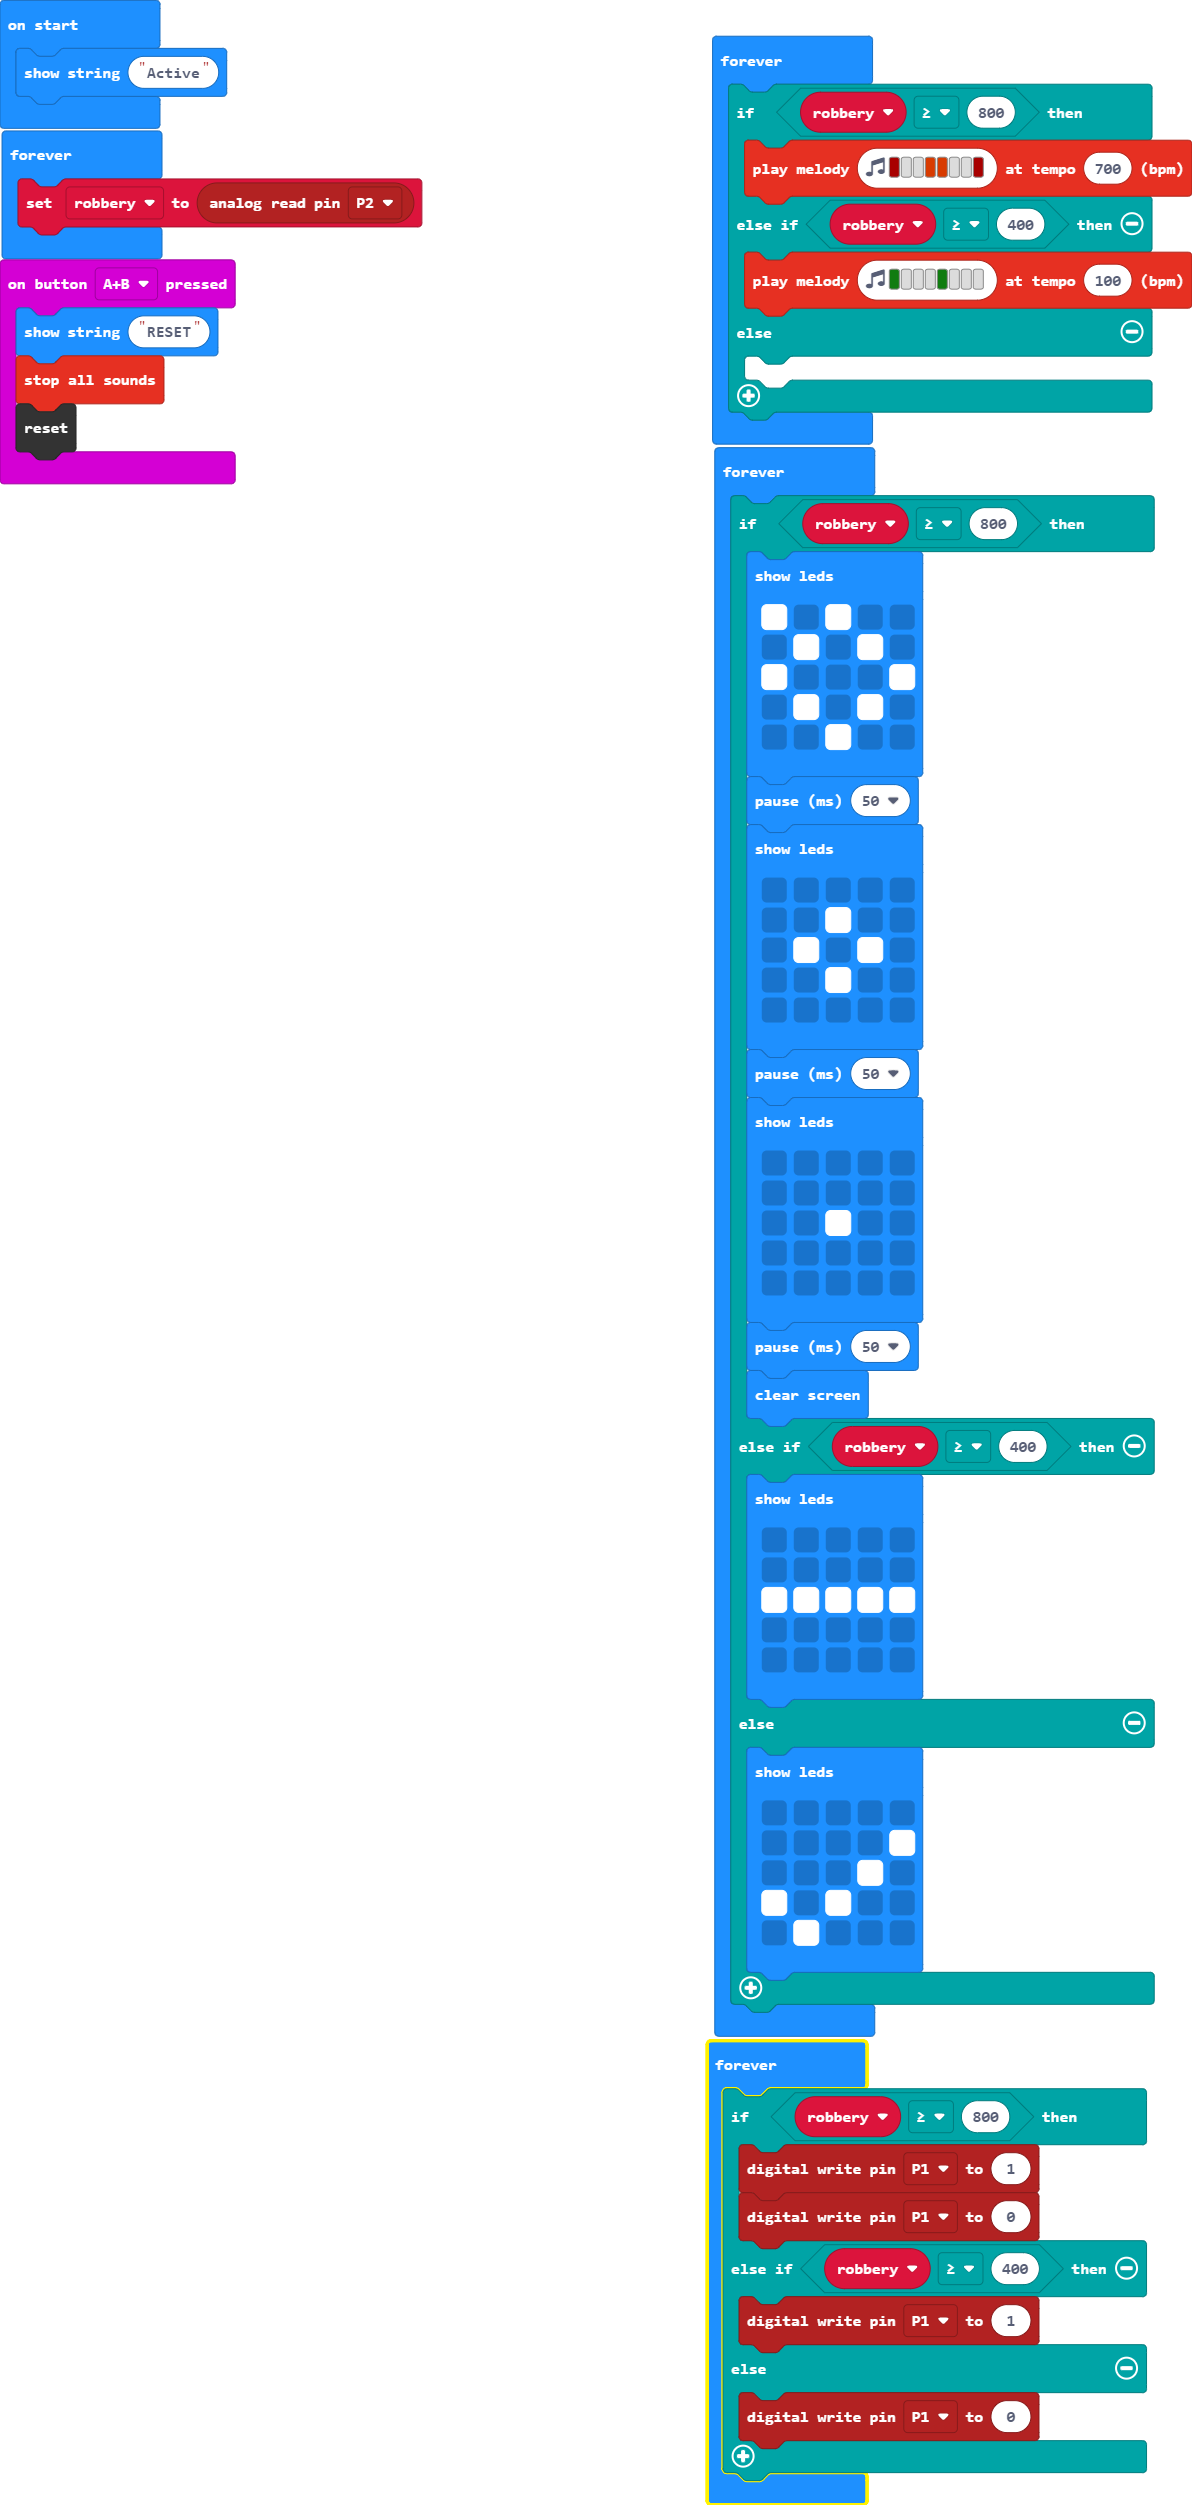
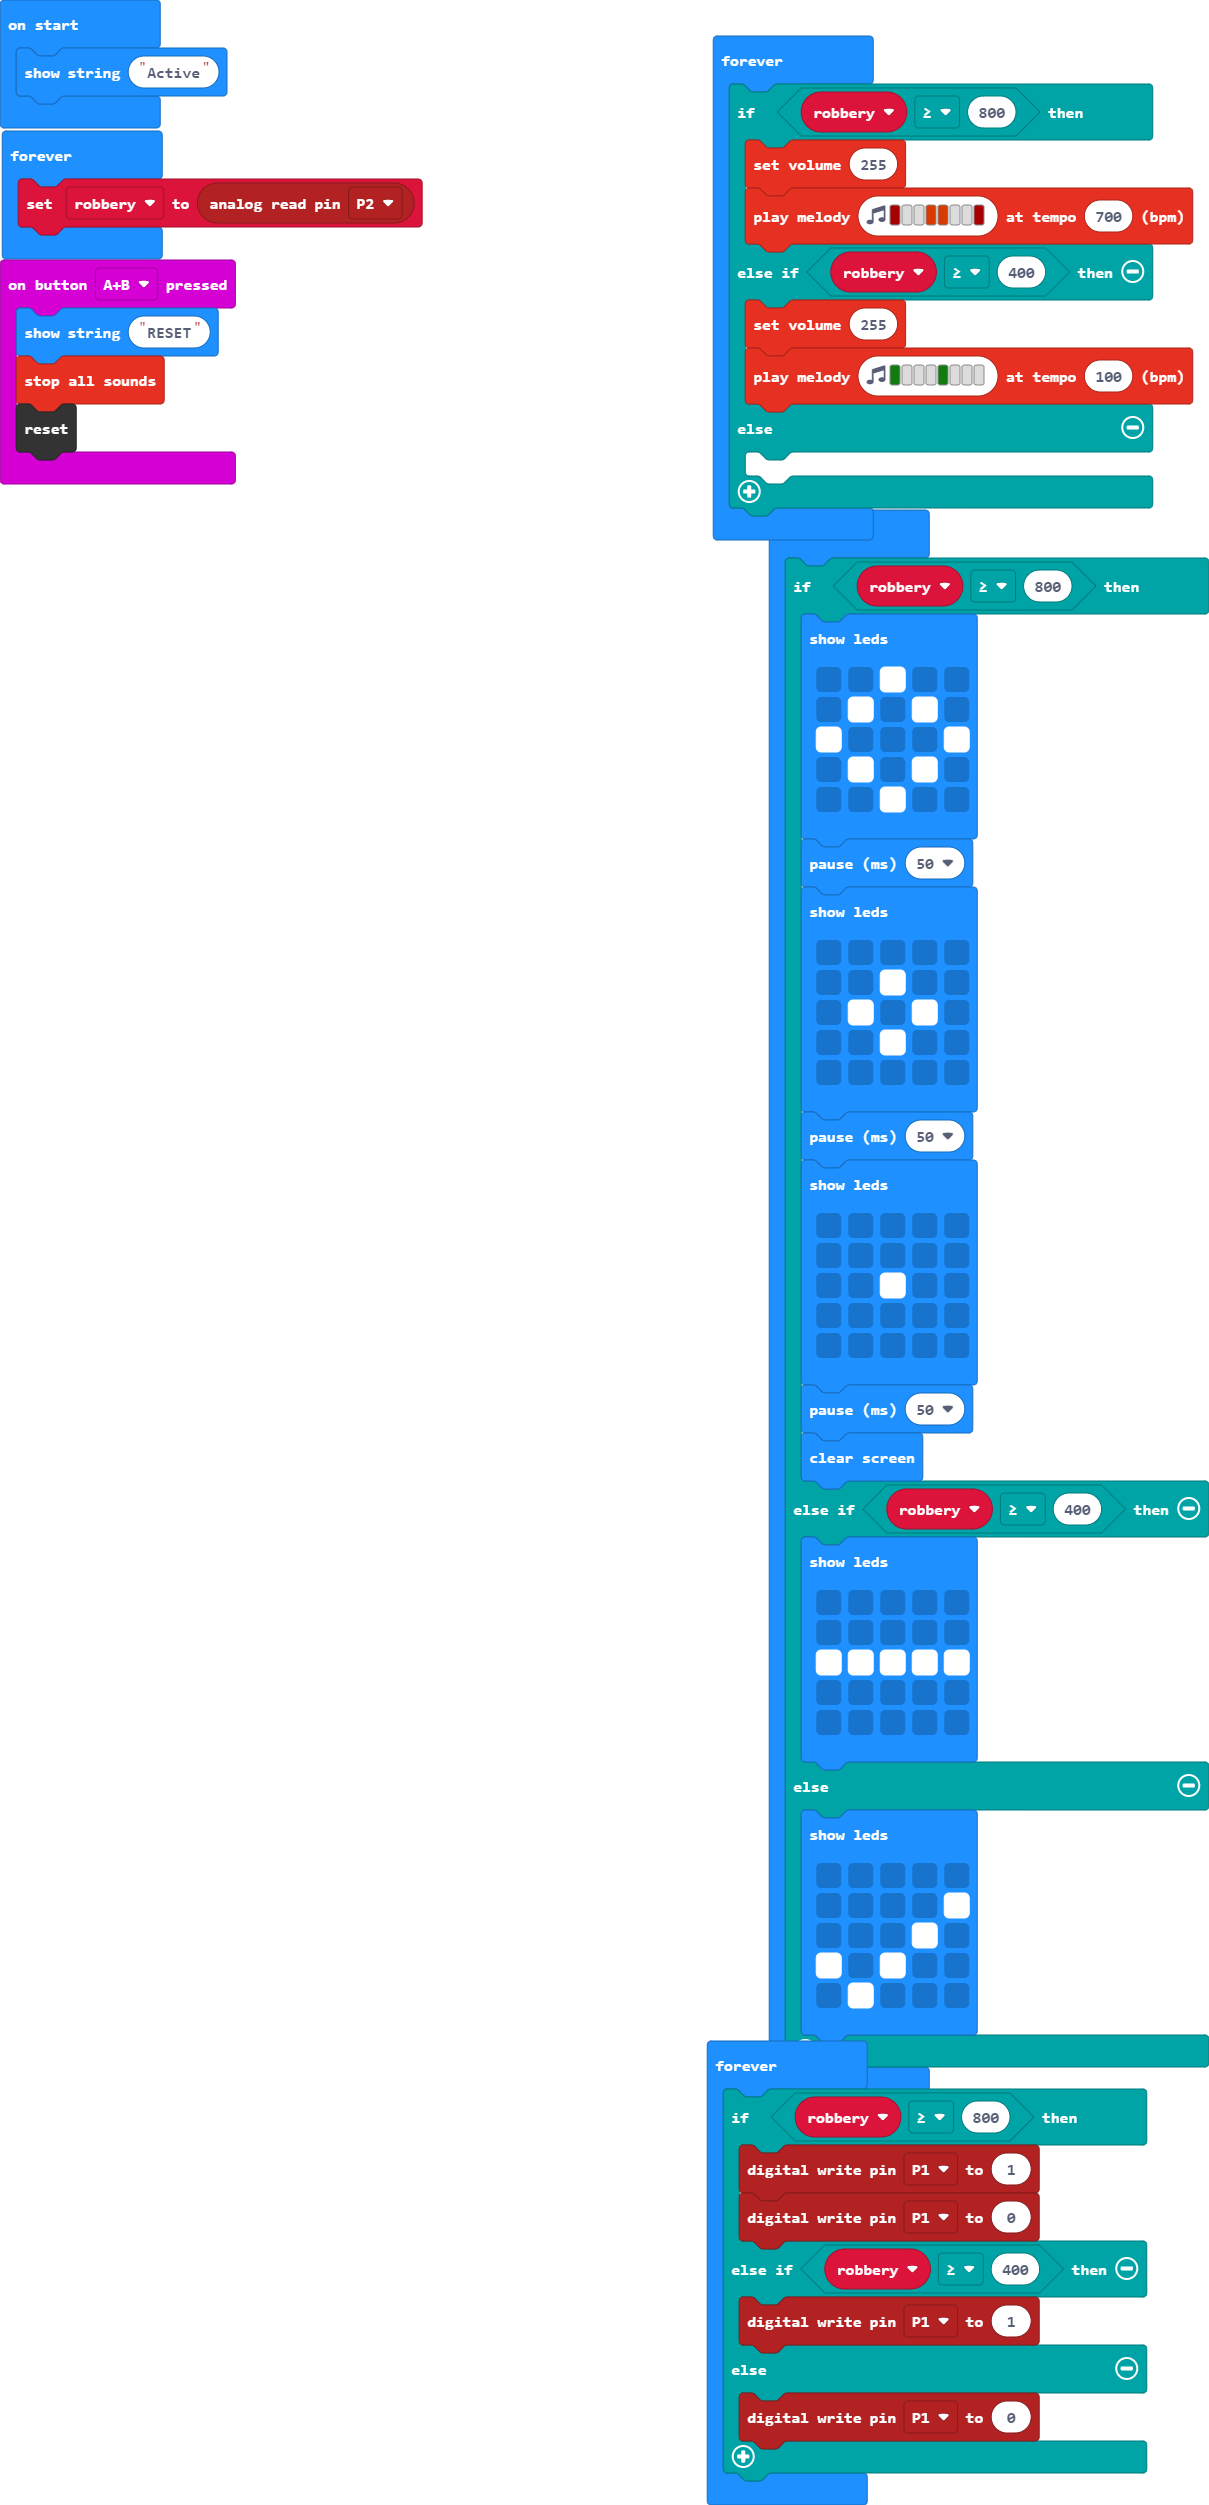
things

diff --git a/main.ts b/main.ts
@@ -7,8 +7,10 @@ let robbery = 0
 basic.showString("Active")
 basic.forever(function () {
     if (robbery >= 800) {
+        music.setVolume(255)
         music.playMelody("C5 - - B B - - C5 ", 700)
     } else if (robbery >= 400) {
+        music.setVolume(255)
         music.playMelody("G - - - G - - - ", 100)
     } else {
     	
@@ -20,7 +22,7 @@ basic.forever(function () {
 basic.forever(function () {
     if (robbery >= 800) {
         basic.showLeds(`
-            # . # . .
+            . . # . .
             . # . # .
             # . . . #
             . # . # .
